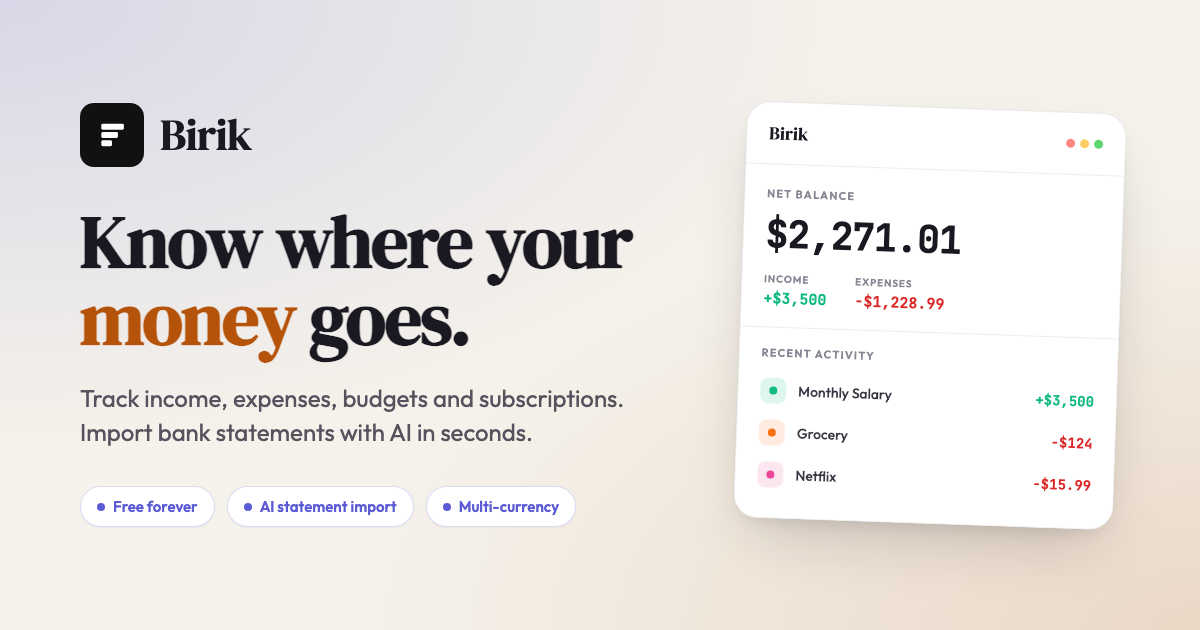
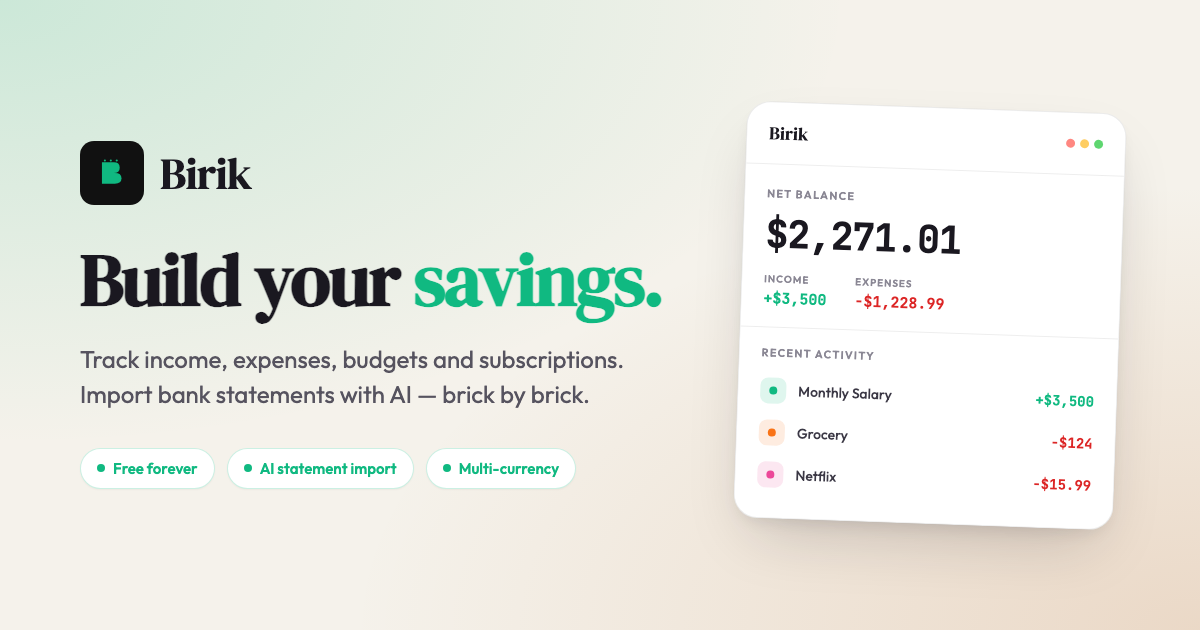
BRAND NAME CHANGE

Changed region(s): [[0.0617, 0.1508, 0.555, 0.8444]]

diff --git a/src/App.css b/src/App.css
@@ -13,9 +13,9 @@
   --green:       #059669;
   --red:         #DC2626;
   --gold:        #B45309;
-  --brand:       #5B5BD6;
-  --brand-dim:   rgba(91, 91, 214, 0.10);
-  --brand-rgb:   91, 91, 214;
+  --brand:       #10B981;
+  --brand-dim:   rgba(16, 185, 129, 0.10);
+  --brand-rgb:   16, 185, 129;
 
   --shadow-sm:   0 1px 2px rgba(20, 18, 35, 0.05);
   --shadow-md:   0 4px 14px rgba(20, 18, 35, 0.06), 0 1px 3px rgba(20, 18, 35, 0.04);
@@ -30,20 +30,20 @@
 }
 
 .dark {
-  --bg:          #0C0C10;
-  --surface:     #13131B;
-  --surface-2:   #1C1C26;
-  --border:      #252532;
-  --border-2:    #333342;
-  --text-1:      #F0EDF8;
-  --text-2:      #7A7888;
-  --text-3:      #4A4860;
-  --green:       #10B981;
+  --bg:          #0D0D0D;
+  --surface:     #15151A;
+  --surface-2:   #1E1E24;
+  --border:      #262630;
+  --border-2:    #353540;
+  --text-1:      #F5F5F5;
+  --text-2:      #A8A8B0;
+  --text-3:      #5A5A66;
+  --green:       #34D399;
   --red:         #F87171;
   --gold:        #FBBF24;
-  --brand:       #7472F8;
-  --brand-dim:   rgba(116, 114, 248, 0.12);
-  --brand-rgb:   116, 114, 248;
+  --brand:       #7CFFB2;
+  --brand-dim:   rgba(124, 255, 178, 0.12);
+  --brand-rgb:   124, 255, 178;
 
   --shadow-sm:   0 1px 2px rgba(0, 0, 0, 0.35);
   --shadow-md:   0 4px 14px rgba(0, 0, 0, 0.40), 0 1px 3px rgba(0, 0, 0, 0.28);
@@ -74,7 +74,7 @@ body {
 }
 .dark body {
   background-image:
-    radial-gradient(ellipse 70% 50% at 8% -5%,  rgba(116, 114, 248, 0.10) 0%, transparent 55%),
+    radial-gradient(ellipse 70% 50% at 8% -5%,  rgba(124, 255, 178, 0.10) 0%, transparent 55%),
     radial-gradient(ellipse 55% 45% at 100% 110%, rgba(251, 191, 36, 0.04) 0%, transparent 55%);
 }
 
@@ -409,7 +409,7 @@ body {
 }
 .dark .login-bg {
   background-image:
-    radial-gradient(ellipse 60% 40% at 18% 18%, rgba(116, 114, 248, 0.14) 0%, transparent 60%),
+    radial-gradient(ellipse 60% 40% at 18% 18%, rgba(124, 255, 178, 0.14) 0%, transparent 60%),
     radial-gradient(ellipse 40% 60% at 82% 82%, rgba(251, 191, 36, 0.04) 0%, transparent 60%);
 }
 
@@ -457,19 +457,32 @@ nav.sm\:hidden span {
   from { transform: scaleX(0); opacity: 0; }
   to   { transform: scaleX(1); opacity: 1; }
 }
-@keyframes logoPulse {
-  0%, 100% { filter: drop-shadow(0 0 0px rgba(255,255,255,0)); }
-  50%       { filter: drop-shadow(0 0 6px rgba(255,255,255,0.4)); }
+@keyframes studPop {
+  from { transform: scale(0); opacity: 0; }
+  to   { transform: scale(1); opacity: 1; }
 }
-.birik-logo rect:not(:first-child) {
-  transform-origin: 28px center;
+@keyframes logoPulse {
+  0%, 100% { filter: drop-shadow(0 0 0px rgba(16, 185, 129, 0)); }
+  50%       { filter: drop-shadow(0 0 6px rgba(16, 185, 129, 0.45)); }
+}
+.birik-logo path {
+  transform-origin: 30px center;
   transform: scaleX(0);
   opacity: 0;
   animation: brickSlide 0.55s cubic-bezier(0.16,1,0.3,1) forwards;
 }
-.birik-logo rect:nth-child(2) { animation-delay: 0.05s; }
-.birik-logo rect:nth-child(3) { animation-delay: 0.2s; }
-.birik-logo rect:nth-child(4) { animation-delay: 0.35s; }
+.birik-logo path:nth-of-type(1) { animation-delay: 0.1s; }
+.birik-logo path:nth-of-type(2) { animation-delay: 0.28s; }
+.birik-logo circle {
+  transform-box: fill-box;
+  transform-origin: center;
+  transform: scale(0);
+  opacity: 0;
+  animation: studPop 0.35s cubic-bezier(0.16,1,0.3,1) forwards;
+}
+.birik-logo circle:nth-of-type(1) { animation-delay: 0.48s; }
+.birik-logo circle:nth-of-type(2) { animation-delay: 0.55s; }
+.birik-logo circle:nth-of-type(3) { animation-delay: 0.62s; }
 .birik-logo:hover {
   animation: logoPulse 1.5s ease-in-out infinite;
 }

diff --git a/index.html b/index.html
@@ -4,13 +4,13 @@
     <meta charset="UTF-8" />
     <meta name="viewport" content="width=device-width, initial-scale=1.0, viewport-fit=cover" />
 
-    <title>Birik — Free expense tracker with AI bank statement import</title>
-    <meta name="description" content="Birik is a free personal finance app to track income, expenses, budgets, savings goals, and subscriptions. Import bank statements with AI in seconds. No credit card required." />
+    <title>Birik — Build your savings. Free expense tracker with AI bank statement import</title>
+    <meta name="description" content="Build your savings, brick by brick. Birik is a free personal finance app to track income, expenses, budgets, savings goals, and subscriptions. Import bank statements with AI in seconds. No credit card required." />
     <meta name="keywords" content="expense tracker, personal finance, budget app, subscription tracker, savings goals, bank statement import, AI finance app, free budgeting, money tracker, Birik" />
     <meta name="author" content="Birik" />
     <meta name="robots" content="index, follow, max-image-preview:large, max-snippet:-1" />
     <meta name="theme-color" content="#f5f1ea" media="(prefers-color-scheme: light)" />
-    <meta name="theme-color" content="#0a0a0a" media="(prefers-color-scheme: dark)" />
+    <meta name="theme-color" content="#0D0D0D" media="(prefers-color-scheme: dark)" />
     <meta name="color-scheme" content="light dark" />
     <meta name="application-name" content="Birik" />
     <meta name="apple-mobile-web-app-title" content="Birik" />
@@ -26,8 +26,8 @@
     <meta property="og:type" content="website" />
     <meta property="og:site_name" content="Birik" />
     <meta property="og:url" content="https://furunci.tech/" />
-    <meta property="og:title" content="Birik — Free expense tracker with AI bank statement import" />
-    <meta property="og:description" content="Track income, expenses, budgets, subscriptions and savings goals. Import bank statements with AI. Free forever." />
+    <meta property="og:title" content="Birik — Build your savings" />
+    <meta property="og:description" content="Build your savings, brick by brick. Track income, expenses, budgets, subscriptions and savings goals. Import bank statements with AI. Free forever." />
     <meta property="og:image" content="https://furunci.tech/og-image.png" />
     <meta property="og:image:width" content="1200" />
     <meta property="og:image:height" content="630" />
@@ -37,13 +37,13 @@
 
     <!-- Twitter -->
     <meta name="twitter:card" content="summary_large_image" />
-    <meta name="twitter:title" content="Birik — Free expense tracker with AI bank statement import" />
-    <meta name="twitter:description" content="Track income, expenses, budgets, subscriptions and savings goals. Import bank statements with AI. Free forever." />
+    <meta name="twitter:title" content="Birik — Build your savings" />
+    <meta name="twitter:description" content="Build your savings, brick by brick. Track income, expenses, budgets, subscriptions and savings goals. Import bank statements with AI. Free forever." />
     <meta name="twitter:image" content="https://furunci.tech/og-image.png" />
     <meta name="twitter:image:alt" content="Birik — personal finance dashboard" />
 
     <link rel="icon" type="image/svg+xml" href="/birik.svg" />
-    <link rel="apple-touch-icon" href="/birik.svg" />
+    <link rel="apple-touch-icon" sizes="180x180" href="/birik-icon.png" />
     <link rel="manifest" href="/site.webmanifest" />
 
     <link rel="preconnect" href="https://fonts.googleapis.com" />
@@ -68,7 +68,8 @@
       "url": "https://furunci.tech/",
       "applicationCategory": "FinanceApplication",
       "operatingSystem": "Web",
-      "description": "Free personal finance app to track income, expenses, budgets, subscriptions, and savings goals. Import bank statements with AI.",
+      "slogan": "Build your savings.",
+      "description": "Build your savings, brick by brick. Free personal finance app to track income, expenses, budgets, subscriptions, and savings goals. Import bank statements with AI.",
       "offers": {
         "@type": "Offer",
         "price": "0",
@@ -99,8 +100,8 @@
     <div id="root"></div>
     <noscript>
       <div style="font-family: system-ui, sans-serif; max-width: 640px; margin: 4rem auto; padding: 2rem; text-align: center;">
-        <h1>Birik</h1>
-        <p>Birik is a free personal finance app to track income, expenses, budgets, subscriptions, and savings goals — with AI-powered bank statement import.</p>
+        <h1>Birik — Build your savings.</h1>
+        <p>Birik is a free personal finance app to track income, expenses, budgets, subscriptions, and savings goals — with AI-powered bank statement import. Build your savings, brick by brick.</p>
         <p>This app requires JavaScript to run. Please enable JavaScript in your browser to continue.</p>
       </div>
     </noscript>

diff --git a/public/og-image.html b/public/og-image.html
@@ -19,7 +19,7 @@
   body {
     position: relative;
     background:
-      radial-gradient(at 0% 0%, rgba(91, 91, 214, 0.18) 0%, transparent 50%),
+      radial-gradient(at 0% 0%, rgba(16, 185, 129, 0.18) 0%, transparent 50%),
       radial-gradient(at 100% 100%, rgba(180, 83, 9, 0.16) 0%, transparent 50%),
       #F5F2EB;
     padding: 72px 80px;
@@ -61,7 +61,7 @@
     color: #1A1820;
     margin-bottom: 24px;
   }
-  .headline .accent { color: #B45309; }
+  .headline .accent { color: #10B981; }
 
   .subtitle {
     font-size: 24px;
@@ -81,8 +81,8 @@
     align-items: center;
     gap: 8px;
     background: #FFFFFF;
-    border: 1px solid rgba(91, 91, 214, 0.22);
-    color: #5B5BD6;
+    border: 1px solid rgba(16, 185, 129, 0.22);
+    color: #10B981;
     padding: 10px 16px;
     border-radius: 999px;
     font-size: 15px;
@@ -93,7 +93,7 @@
     width: 8px;
     height: 8px;
     border-radius: 50%;
-    background: #5B5BD6;
+    background: #10B981;
   }
 
   /* Right side mock card */
@@ -181,15 +181,17 @@
     <div class="brand-row">
       <div class="logo">
         <svg viewBox="0 0 128 128" fill="none" xmlns="http://www.w3.org/2000/svg">
-          <rect x="28" y="82" width="36" height="20" rx="5" fill="white"/>
-          <rect x="28" y="54" width="56" height="20" rx="5" fill="white"/>
-          <rect x="28" y="26" width="76" height="20" rx="5" fill="white"/>
+          <path d="M30 28 H70 Q90 28 90 46 Q90 64 70 64 H30 Z" fill="#10B981"/>
+          <path d="M30 64 H74 Q96 64 96 82 Q96 100 74 100 H30 Z" fill="#10B981"/>
+          <circle cx="40" cy="22" r="3.5" fill="#10B981"/>
+          <circle cx="60" cy="22" r="3.5" fill="#10B981"/>
+          <circle cx="80" cy="22" r="3.5" fill="#10B981"/>
         </svg>
       </div>
       <div class="brand-name">Birik</div>
     </div>
-    <h1 class="headline">Know where your <span class="accent">money</span> goes.</h1>
-    <p class="subtitle">Track income, expenses, budgets and subscriptions. Import bank statements with AI in seconds.</p>
+    <h1 class="headline">Build your <span class="accent">savings.</span></h1>
+    <p class="subtitle">Track income, expenses, budgets and subscriptions. Import bank statements with AI — brick by brick.</p>
     <div class="badges">
       <div class="badge"><span class="dot"></span>Free forever</div>
       <div class="badge"><span class="dot"></span>AI statement import</div>

diff --git a/src/i18n.jsx b/src/i18n.jsx
@@ -291,9 +291,10 @@ const translations = {
 
     // Landing
     landingTagline: "Free · No credit card needed",
-    landingHeadline1: "Know where your",
-    landingHeadline2: "money goes.",
-    landingSubtitle: "Log income and expenses, track subscriptions, and import bank statements with AI. Understand your money at a glance.",
+    landingHeadline1: "Build your",
+    landingHeadline2: "savings.",
+    landingSubtitle: "Log income and expenses, track subscriptions, and import bank statements with AI. Build your savings, brick by brick.",
+    slogan: "Build your savings.",
     landingGetStarted: "Create free account",
     landingSignIn: "Sign in",
     landingFeaturesLabel: "How it works",
@@ -671,9 +672,10 @@ const translations = {
 
     // Landing
     landingTagline: "Ücretsiz · Kredi kartı gerekmez",
-    landingHeadline1: "Paranızın nereye",
-    landingHeadline2: "gittiğini bilin.",
-    landingSubtitle: "Gelir ve gider ekleyin, abonelikleri takip edin, banka ekstrelerinizi yapay zeka ile içe aktarın. Paranızı tek bakışta anlayın.",
+    landingHeadline1: "Birikimini",
+    landingHeadline2: "inşa et.",
+    landingSubtitle: "Gelir ve gider ekleyin, abonelikleri takip edin, banka ekstrelerinizi yapay zekâyla içe aktarın. Birikimini tuğla tuğla inşa et.",
+    slogan: "Birikimini inşa et.",
     landingGetStarted: "Ücretsiz hesap oluştur",
     landingSignIn: "Giriş yap",
     landingFeaturesLabel: "Nasıl çalışır",
@@ -767,12 +769,12 @@ const translations = {
 const LangContext = createContext();
 
 const META_DESCRIPTIONS = {
-  en: "Birik is a free personal finance app to track income, expenses, budgets, savings goals, and subscriptions. Import bank statements with AI in seconds.",
-  tr: "Birik; gelir ve giderlerinizi, bütçelerinizi, tasarruf hedeflerinizi ve aboneliklerinizi takip eden ücretsiz kişisel finans uygulamasıdır. Banka ekstrenizi saniyeler içinde yapay zekâyla içe aktarın.",
+  en: "Build your savings, brick by brick. Birik is a free personal finance app to track income, expenses, budgets, savings goals, and subscriptions — with AI bank statement import.",
+  tr: "Birikimini tuğla tuğla inşa et. Birik; gelir ve giderlerinizi, bütçelerinizi, tasarruf hedeflerinizi ve aboneliklerinizi takip eden ücretsiz kişisel finans uygulamasıdır — yapay zekâlı banka ekstresi içe aktarımıyla.",
 };
 const META_TITLES = {
-  en: "Birik — Free expense tracker with AI bank statement import",
-  tr: "Birik — Yapay zekâlı banka ekstresi içe aktarımlı ücretsiz harcama takipçisi",
+  en: "Birik — Build your savings. Free expense tracker with AI bank statement import",
+  tr: "Birik — Birikimini inşa et. Yapay zekâlı banka ekstresi içe aktarımlı ücretsiz harcama takipçisi",
 };
 
 export function LangProvider({ children }) {

diff --git a/src/App.jsx b/src/App.jsx
@@ -354,10 +354,12 @@ function App() {
           <div className="flex items-center justify-between">
             <div className="flex items-center gap-3 min-w-0">
               <svg className="birik-logo shrink-0" width="36" height="36" viewBox="0 0 128 128" fill="none" xmlns="http://www.w3.org/2000/svg" style={{ borderRadius: 10 }}>
-                <rect width="128" height="128" rx="28" fill="#111111"/>
-                <rect x="28" y="82" width="36" height="20" rx="5" fill="white"/>
-                <rect x="28" y="54" width="56" height="20" rx="5" fill="white"/>
-                <rect x="28" y="26" width="76" height="20" rx="5" fill="white"/>
+                <rect width="128" height="128" rx="28" fill="#0D0D0D"/>
+                <path d="M30 28 H70 Q90 28 90 46 Q90 64 70 64 H30 Z" fill="#10B981"/>
+                <path d="M30 64 H74 Q96 64 96 82 Q96 100 74 100 H30 Z" fill="#10B981"/>
+                <circle cx="40" cy="22" r="3.5" fill="#10B981"/>
+                <circle cx="60" cy="22" r="3.5" fill="#10B981"/>
+                <circle cx="80" cy="22" r="3.5" fill="#10B981"/>
               </svg>
               <div className="min-w-0">
                 <h1 className="fin-serif text-xl sm:text-2xl leading-tight truncate" style={{ color: "var(--text-1)" }}>

diff --git a/src/LandingPage.jsx b/src/LandingPage.jsx
@@ -174,10 +174,12 @@ function LandingPage({ onGetStarted, onSignIn, isDark, toggleDark }) {
         <div className="max-w-5xl mx-auto px-6 py-4 flex items-center justify-between">
           <div className="flex items-center gap-2">
             <svg className="birik-logo shrink-0" width="34" height="34" viewBox="0 0 128 128" fill="none" xmlns="http://www.w3.org/2000/svg" style={{ borderRadius: 9 }}>
-              <rect width="128" height="128" rx="28" fill="#111111"/>
-              <rect x="28" y="82" width="36" height="20" rx="5" fill="white"/>
-              <rect x="28" y="54" width="56" height="20" rx="5" fill="white"/>
-              <rect x="28" y="26" width="76" height="20" rx="5" fill="white"/>
+              <rect width="128" height="128" rx="28" fill="#0D0D0D"/>
+              <path d="M30 28 H70 Q90 28 90 46 Q90 64 70 64 H30 Z" fill="#10B981"/>
+              <path d="M30 64 H74 Q96 64 96 82 Q96 100 74 100 H30 Z" fill="#10B981"/>
+              <circle cx="40" cy="22" r="3.5" fill="#10B981"/>
+              <circle cx="60" cy="22" r="3.5" fill="#10B981"/>
+              <circle cx="80" cy="22" r="3.5" fill="#10B981"/>
             </svg>
             <span className="fin-serif text-base" style={{ color: "var(--text-1)" }}>{t("appName")}</span>
           </div>

diff --git a/src/LoginPage.jsx b/src/LoginPage.jsx
@@ -98,10 +98,12 @@ function LoginPage({ onSuccess, onSwitch, onForgotPassword, onBack, isDark, togg
         {/* Brand mark */}
         <div className="flex flex-col items-center mb-8">
           <svg className="birik-logo mb-4" width="48" height="48" viewBox="0 0 128 128" fill="none" xmlns="http://www.w3.org/2000/svg" style={{ borderRadius: 14 }}>
-            <rect width="128" height="128" rx="28" fill="#111111"/>
-            <rect x="28" y="82" width="36" height="20" rx="5" fill="white"/>
-            <rect x="28" y="54" width="56" height="20" rx="5" fill="white"/>
-            <rect x="28" y="26" width="76" height="20" rx="5" fill="white"/>
+            <rect width="128" height="128" rx="28" fill="#0D0D0D"/>
+            <path d="M30 28 H70 Q90 28 90 46 Q90 64 70 64 H30 Z" fill="#10B981"/>
+            <path d="M30 64 H74 Q96 64 96 82 Q96 100 74 100 H30 Z" fill="#10B981"/>
+            <circle cx="40" cy="22" r="3.5" fill="#10B981"/>
+            <circle cx="60" cy="22" r="3.5" fill="#10B981"/>
+            <circle cx="80" cy="22" r="3.5" fill="#10B981"/>
           </svg>
           <h1 className="fin-serif text-2xl" style={{ color: "var(--text-1)" }}>{t("appName")}</h1>
           <p className="text-sm mt-1" style={{ color: "var(--text-3)" }}>{t("appSubtitle")}</p>

diff --git a/src/PrivacyPage.jsx b/src/PrivacyPage.jsx
@@ -226,10 +226,12 @@ function PrivacyPage({ isDark, toggleDark, onBack }) {
       <article className="max-w-3xl mx-auto px-4 sm:px-6 py-8 sm:py-12 anim-1">
         <div className="flex items-center gap-3 mb-3">
           <svg className="birik-logo shrink-0" width="40" height="40" viewBox="0 0 128 128" fill="none" xmlns="http://www.w3.org/2000/svg" style={{ borderRadius: 11 }}>
-            <rect width="128" height="128" rx="28" fill="#111111"/>
-            <rect x="28" y="82" width="36" height="20" rx="5" fill="white"/>
-            <rect x="28" y="54" width="56" height="20" rx="5" fill="white"/>
-            <rect x="28" y="26" width="76" height="20" rx="5" fill="white"/>
+            <rect width="128" height="128" rx="28" fill="#0D0D0D"/>
+            <path d="M30 28 H70 Q90 28 90 46 Q90 64 70 64 H30 Z" fill="#10B981"/>
+            <path d="M30 64 H74 Q96 64 96 82 Q96 100 74 100 H30 Z" fill="#10B981"/>
+            <circle cx="40" cy="22" r="3.5" fill="#10B981"/>
+            <circle cx="60" cy="22" r="3.5" fill="#10B981"/>
+            <circle cx="80" cy="22" r="3.5" fill="#10B981"/>
           </svg>
           <span className="fin-serif text-lg" style={{ color: "var(--text-2)" }}>Birik</span>
         </div>

diff --git a/src/RegisterPage.jsx b/src/RegisterPage.jsx
@@ -170,10 +170,12 @@ function RegisterPage({ onSwitch, onBack, isDark, toggleDark, onShowTerms, onSho
   const BrandMark = () => (
     <div className="flex flex-col items-center mb-8">
       <svg className="birik-logo mb-4" width="48" height="48" viewBox="0 0 128 128" fill="none" xmlns="http://www.w3.org/2000/svg" style={{ borderRadius: 14 }}>
-        <rect width="128" height="128" rx="28" fill="#111111"/>
-        <rect x="28" y="82" width="36" height="20" rx="5" fill="white"/>
-        <rect x="28" y="54" width="56" height="20" rx="5" fill="white"/>
-        <rect x="28" y="26" width="76" height="20" rx="5" fill="white"/>
+        <rect width="128" height="128" rx="28" fill="#0D0D0D"/>
+        <path d="M30 28 H70 Q90 28 90 46 Q90 64 70 64 H30 Z" fill="#10B981"/>
+        <path d="M30 64 H74 Q96 64 96 82 Q96 100 74 100 H30 Z" fill="#10B981"/>
+        <circle cx="40" cy="22" r="3.5" fill="#10B981"/>
+        <circle cx="60" cy="22" r="3.5" fill="#10B981"/>
+        <circle cx="80" cy="22" r="3.5" fill="#10B981"/>
       </svg>
       <h1 className="fin-serif text-2xl" style={{ color: "var(--text-1)" }}>{t("appName")}</h1>
       <p className="text-sm mt-1" style={{ color: "var(--text-3)" }}>{t("appSubtitle")}</p>

diff --git a/src/TermsPage.jsx b/src/TermsPage.jsx
@@ -236,10 +236,12 @@ function TermsPage({ isDark, toggleDark, onBack }) {
       <article className="max-w-3xl mx-auto px-4 sm:px-6 py-8 sm:py-12 anim-1">
         <div className="flex items-center gap-3 mb-3">
           <svg className="birik-logo shrink-0" width="40" height="40" viewBox="0 0 128 128" fill="none" xmlns="http://www.w3.org/2000/svg" style={{ borderRadius: 11 }}>
-            <rect width="128" height="128" rx="28" fill="#111111"/>
-            <rect x="28" y="82" width="36" height="20" rx="5" fill="white"/>
-            <rect x="28" y="54" width="56" height="20" rx="5" fill="white"/>
-            <rect x="28" y="26" width="76" height="20" rx="5" fill="white"/>
+            <rect width="128" height="128" rx="28" fill="#0D0D0D"/>
+            <path d="M30 28 H70 Q90 28 90 46 Q90 64 70 64 H30 Z" fill="#10B981"/>
+            <path d="M30 64 H74 Q96 64 96 82 Q96 100 74 100 H30 Z" fill="#10B981"/>
+            <circle cx="40" cy="22" r="3.5" fill="#10B981"/>
+            <circle cx="60" cy="22" r="3.5" fill="#10B981"/>
+            <circle cx="80" cy="22" r="3.5" fill="#10B981"/>
           </svg>
           <span className="fin-serif text-lg" style={{ color: "var(--text-2)" }}>Birik</span>
         </div>